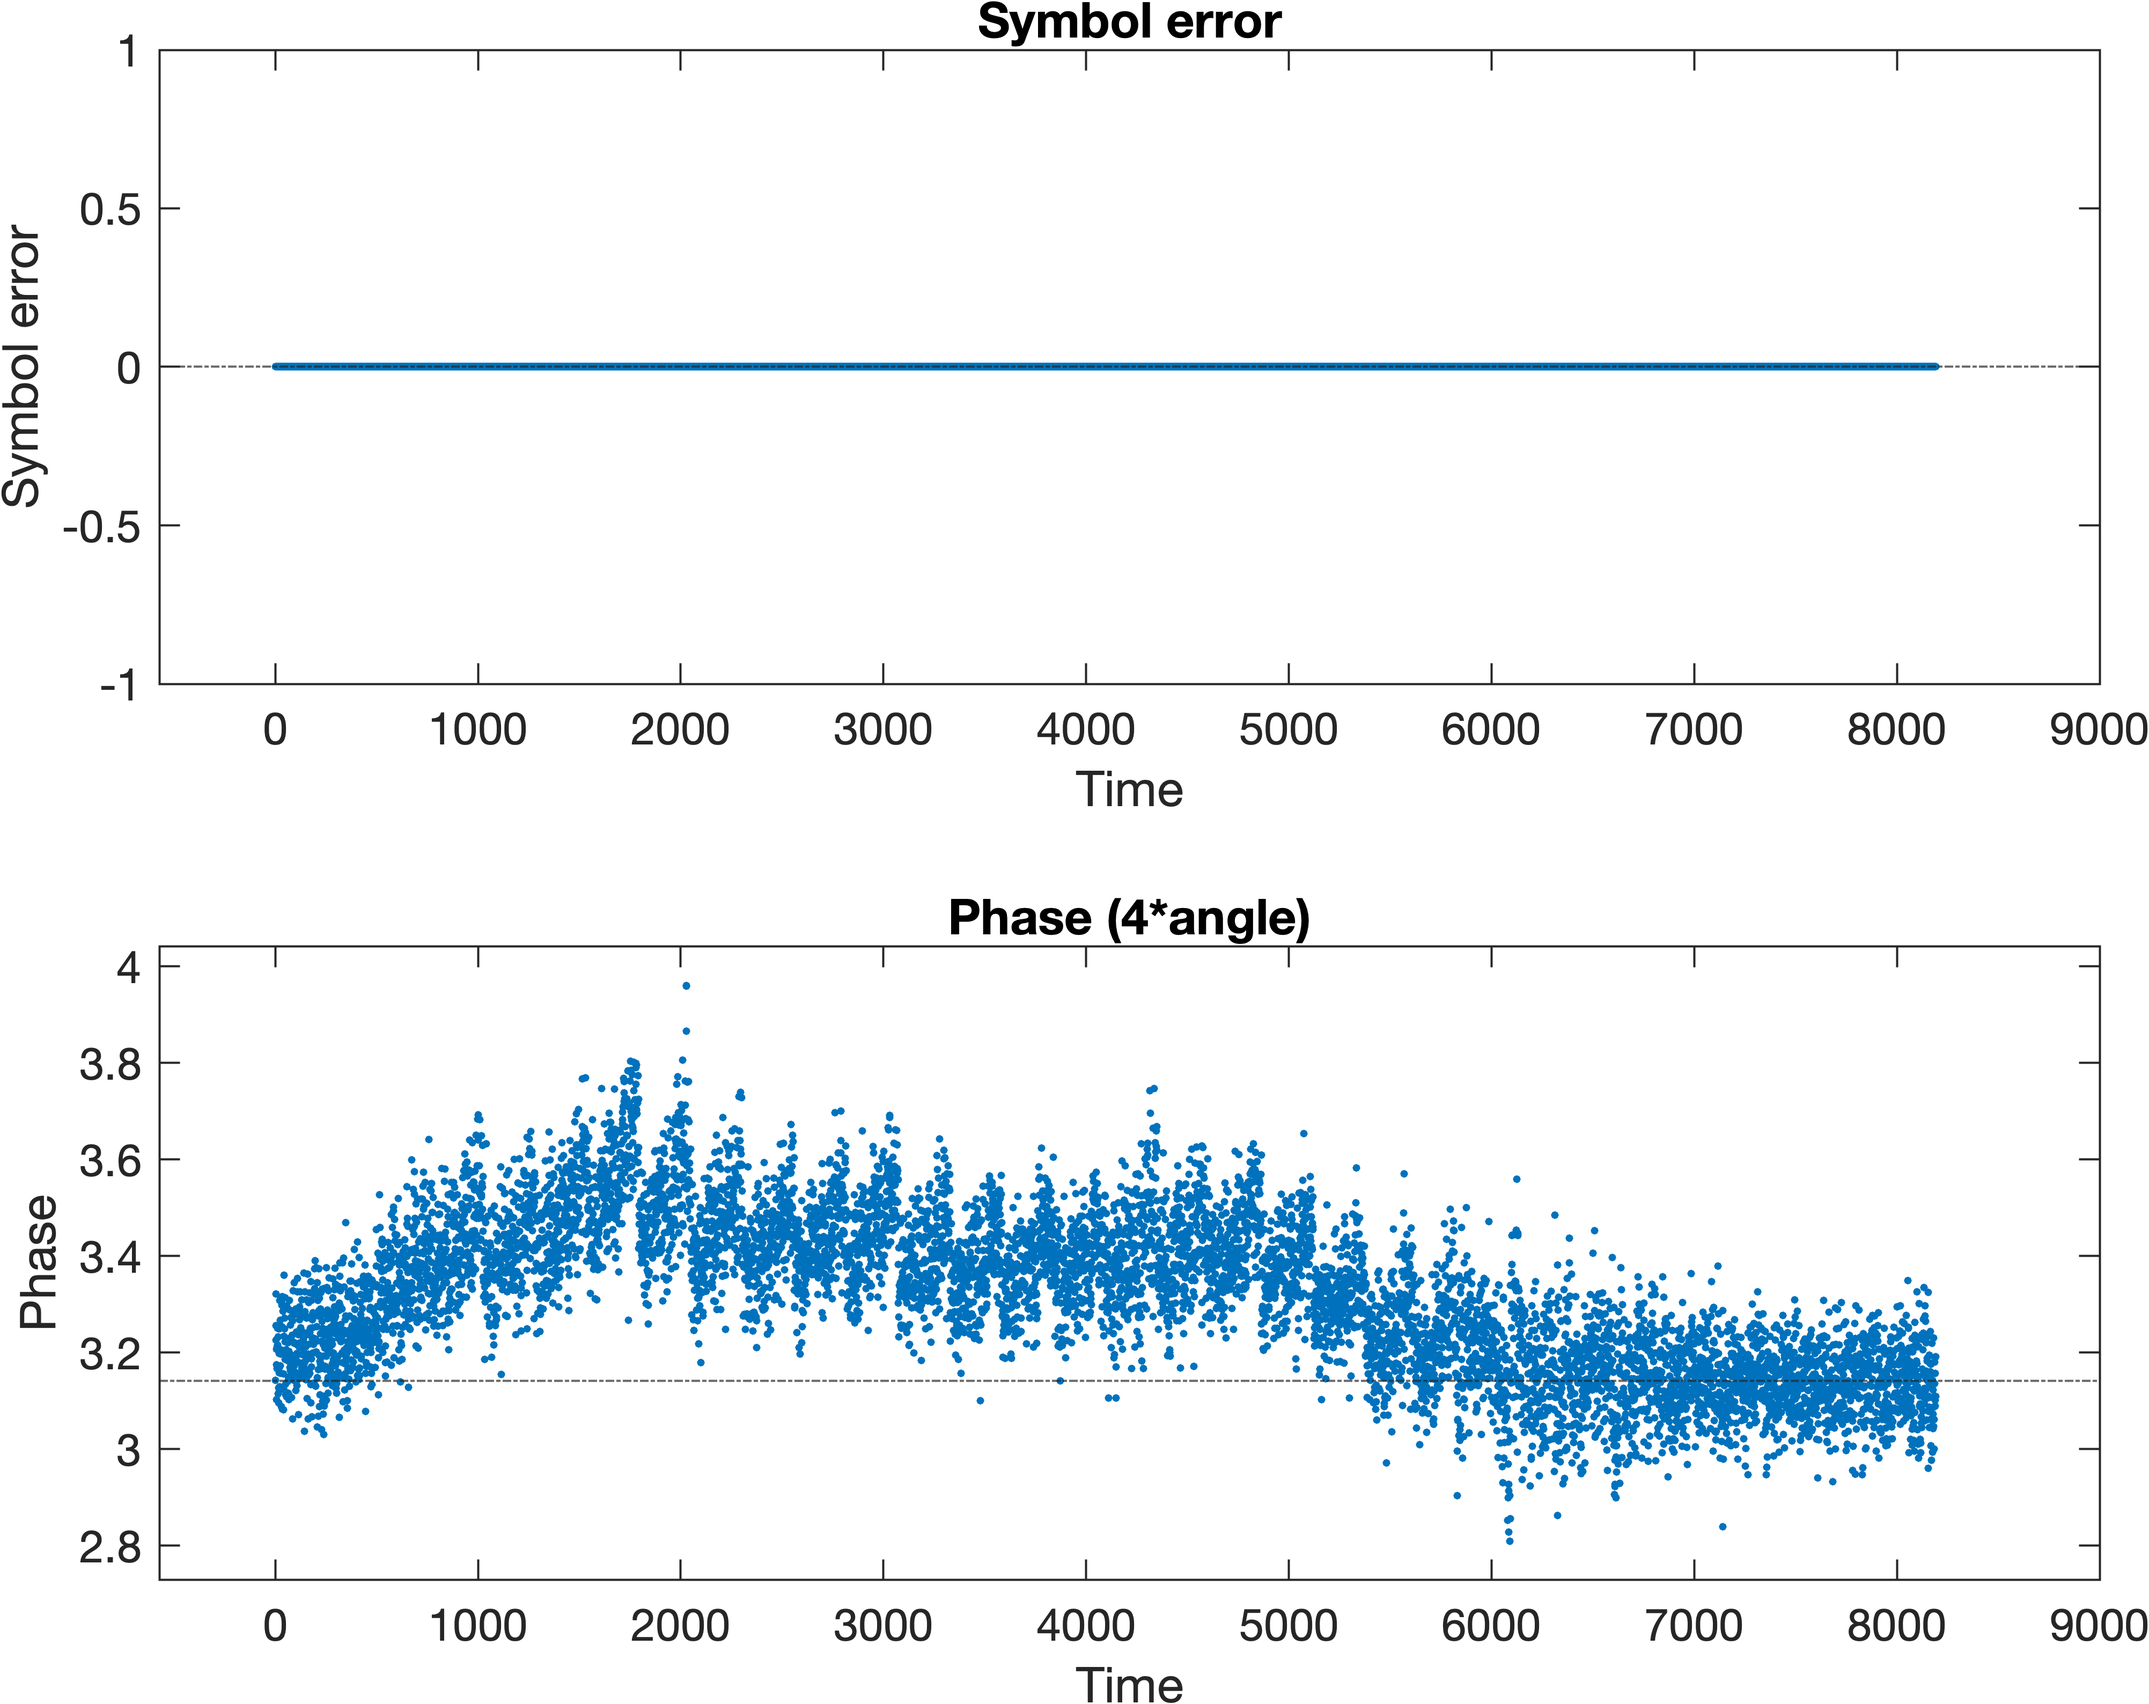
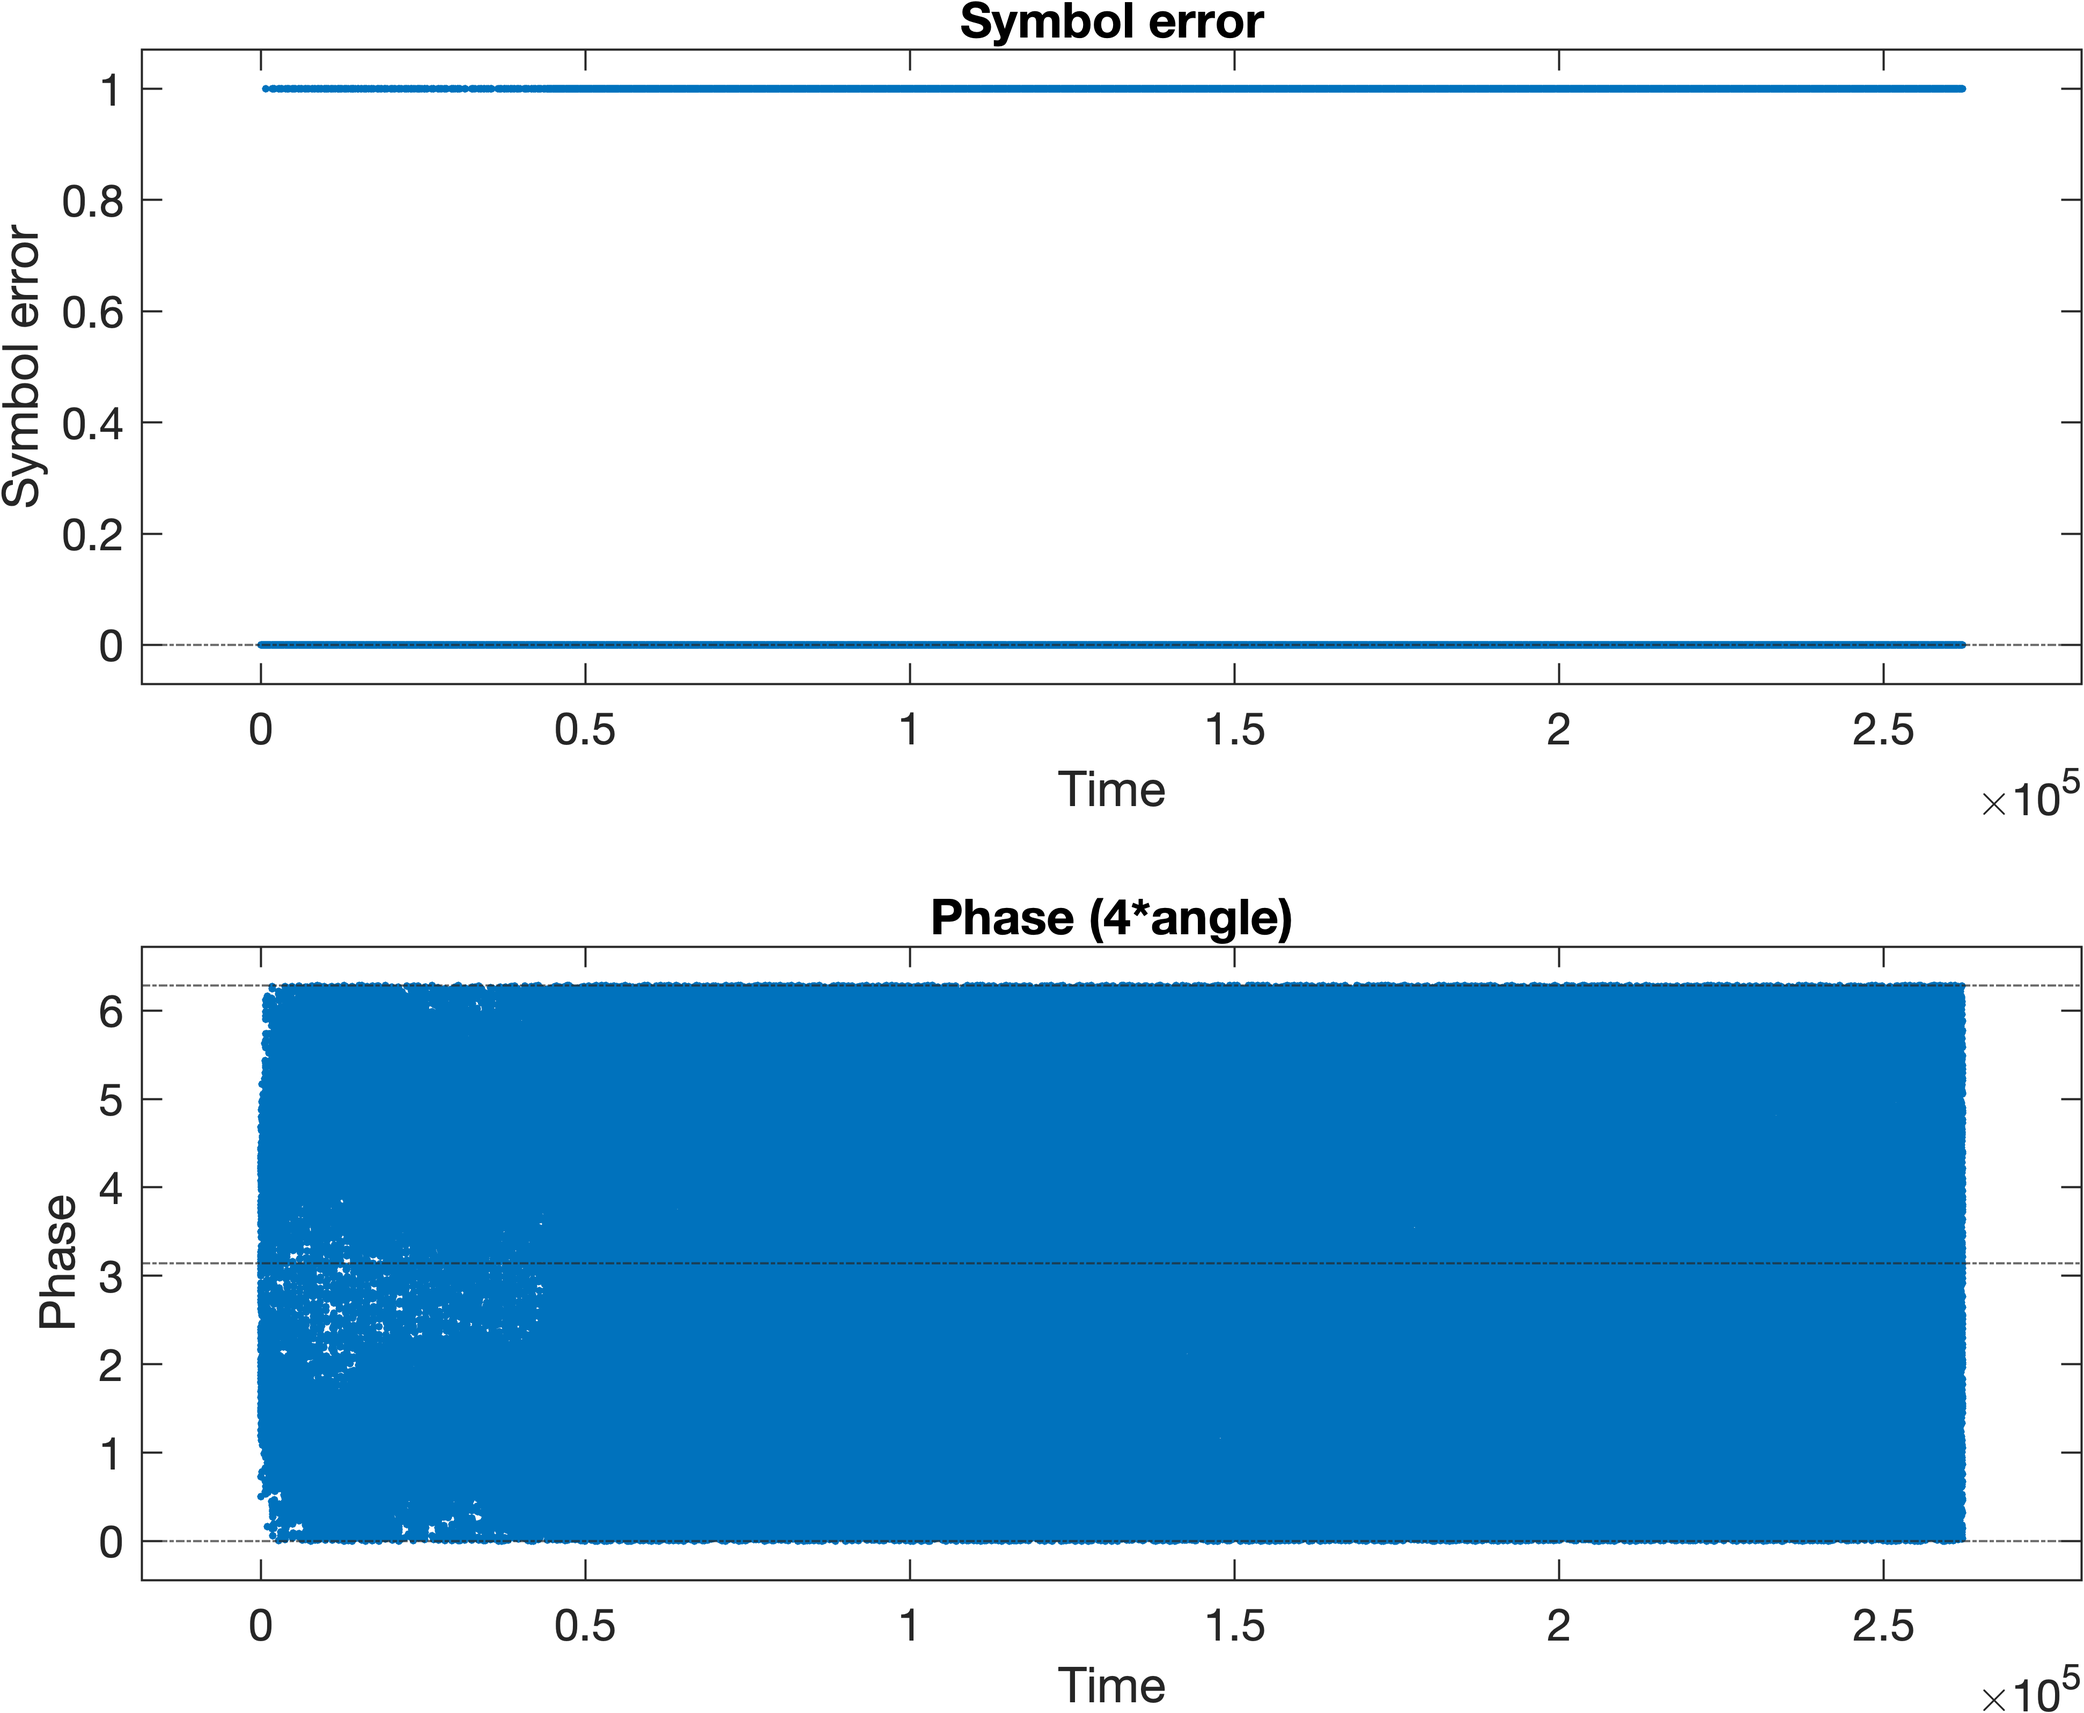
next version

diff --git a/project_matlab/main.m b/project_matlab/main.m
@@ -1,4 +1,4 @@
-close all; clear all; clc;
+close all; clear all;
 rng(123);
 
 addpath("functions/")
@@ -8,17 +8,17 @@ addpath('plots/');
 
 
 % Configuration Values
-conf.audiosystem = 'bypass'; % Values: 'matlab','native','bypass'
-conf.data_type = "random"; % Values: 'image', 'random'
+conf.audiosystem = 'matlab'; % Values: 'matlab','native','bypass'
+conf.data_type = "image"; % Values: 'image', 'random'
 
-conf.enable_phase_tracking = false;
+conf.enable_phase_tracking = true;
 
-conf.enable_multi_training = false;
-conf.num_training_symbols = 1;
+conf.enable_multi_training = true;
+conf.num_training_symbols = 256;
 
 %% Upload image
 
-image_file = 'pyramid.png';
+image_file = 'epfl_256.png';
 
 [binary_stream, conf] = image_to_bitstream(image_file, conf);
 
@@ -28,16 +28,17 @@ if conf.data_type == "image"
     txbits = binary_stream;
 
 elseif conf.data_type == "random"
-    num_ofdm_symbols = 2; % Specify the number of random OFDM symbols to send
-    txbits = randi([0 1],256*2*num_ofdm_symbols,1);
+    num_ofdm_symbols = 10; % Specify the number of random OFDM symbols to send
+    txbits = randi([0 1],1024*2*num_ofdm_symbols,1);
 
 end
 
 %% Configure frequencies
 conf.f_carrier            = 4000;
-conf.N                    = 256;  % number of subcarriers
-conf.cyclic_prefix_len    = conf.N/2;
-conf.preamble_len         = 100;
+conf.N                    = 1024;  % number of subcarriers
+conf.cyclic_prefix_len    = 32;
+conf.preamble_len         = 200;
+
 
 conf.SNR_db               = 20;   % artificial noise 
 conf.sigmaDeltaTheta      = 0.05; % artificial phase shift
@@ -62,7 +63,7 @@ for audio_transmission = 1 % used to minimize this section
 
 % normalize values (to avoid saturation of the speaker)
 peakvalue       = max(abs(txsignal));
-normtxsignal    = txsignal / (peakvalue + 0.3);
+normtxsignal    = txsignal / (peakvalue + 1.5);
 
 nexttile
 plot(txsignal);
@@ -173,7 +174,7 @@ yline(2*pi, '-.');
 yline(0, '-.');
 
 
-exportgraphics(gcf,'plots/test_error.png','Resolution',600)
+exportgraphics(gcf,'plots/error_image_2.png','Resolution',600)
 
 %% Output the image
 if conf.data_type == "image"
@@ -188,5 +189,6 @@ if conf.data_type == "image"
     figure()
     imshow(gray_image_rx,[0 255]);
     title(image_file)
+    exportgraphics(gcf,'plots/image_basic_2.png','Resolution',600)
 end
 

diff --git a/project_matlab/tx.m b/project_matlab/tx.m
@@ -67,7 +67,7 @@ function [txsignal, conf] = tx(txbits,conf)
     preamble = matched_filter(preamble_up, conf);
 
     %% Training sequence
-    conf.training_sequence_bpsk = 2*randi([0, 1], conf.N, 1) - 1;
+    conf.training_sequence_bpsk = preamble_generate(conf.N);% 2*randi([0, 1], conf.N, 1) - 1;
 
     %% Bitstream to QPSK
     tx_qpsk = conf.qpsk(bi2de(reshape(txbits, size(txbits, 1)/2, 2), 'left-msb')+1).';
@@ -76,10 +76,10 @@ function [txsignal, conf] = tx(txbits,conf)
 
     tx_parallel_symbols = reshape(tx_qpsk, conf.N, []);
 
-    size_init_tx_parallel = size(tx_parallel_symbols, 2);
+    size_init_tx_parallel = size(tx_parallel_symbols, 2)
 
     
-    conf.training_period = floor(size_init_tx_parallel/conf.num_training_symbols); 
+    conf.training_period = floor(size_init_tx_parallel/conf.num_training_symbols) 
     
 
     new_tx_parallel_symbols = [];
@@ -109,6 +109,7 @@ function [txsignal, conf] = tx(txbits,conf)
 
     tx_parallel_symbols = new_tx_parallel_symbols;
     conf.new_tx_parallel_symbols = tx_parallel_symbols;
+    size(conf.new_tx_parallel_symbols, 2)
     
 
     %% OS-Inv-FFT (OSIFFT)

diff --git a/project_matlab/functions/init_conf.m b/project_matlab/functions/init_conf.m
@@ -4,7 +4,7 @@ function [conf] = init_conf(conf, txbits)
     conf.f_sampling           = 48000;   % sampling rate
     conf.frequency_spacing    = 5;
     conf.f_symbol_data        = conf.frequency_spacing * conf.N; % symbol rate = 50 [Hz]
-    conf.f_symbol_preamble    = 1000;
+    conf.f_symbol_preamble    = 500;
     
     % conf.num_frames           = 1;       % number of frames to transmit
     % conf.gap_between_frames   = 0;

diff --git a/project_matlab/rx.m b/project_matlab/rx.m
@@ -120,7 +120,7 @@ function [rxbits conf] = rx(rxsignal,conf)
     axis padded
     title("RX symbols");
     hold off;
-    exportgraphics(gcf,'plots/test_rx.png','Resolution',600)
+    exportgraphics(gcf,'plots/image_constellation_rx_2.png','Resolution',600)
 
 
 
